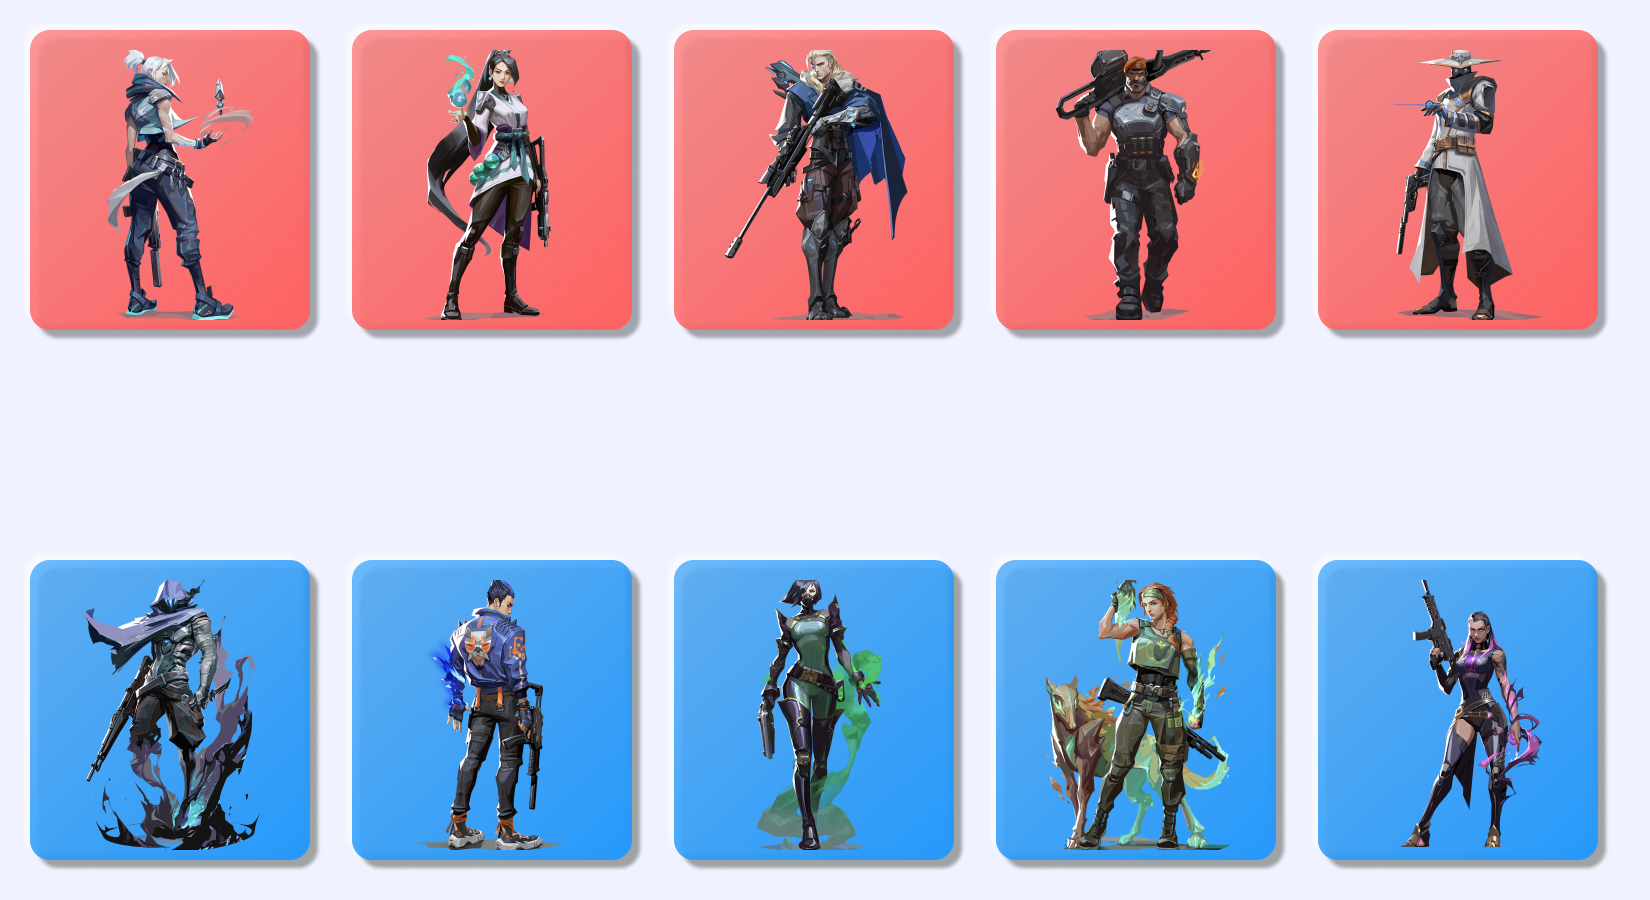
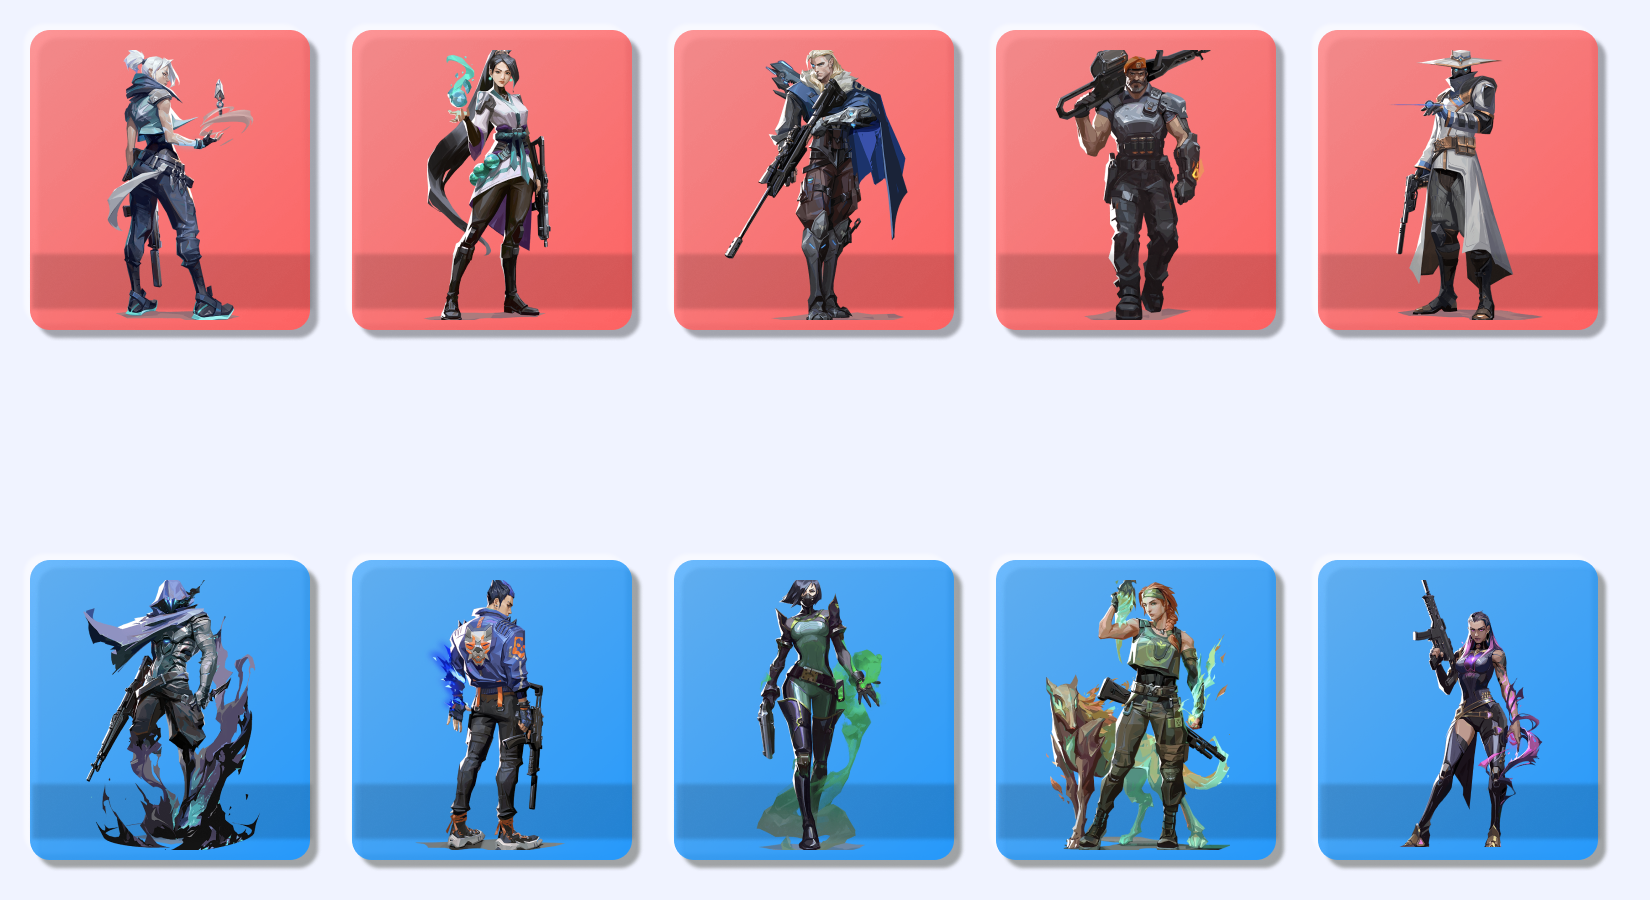
feat: overlay

Changed region(s): [[0.0, 0.28, 0.9891, 0.3422], [0.0, 0.8711, 0.9891, 0.9333]]

diff --git a/valo_generator.py b/valo_generator.py
@@ -24,20 +24,23 @@ class ValoGenerator:
             "skye",
             "reyna"
         ]
+        self.margin_rlay = 250
+        self.margin_blay = 780
 
     def gen_base(self):
         blank = cv2.imread("assets/blank.png")
         # blank = np.zeros((self.base_height, self.base_width, 4))
         # blank += [236, 240, 243, 255][::-1]
-        print(blank.shape)
 
         for i in range(5):
             blank = self.paste_red(blank, i*(self.card_width+20))
             blank = self.paste_red_character(blank, self.characters[i], i*(self.card_width+20)+60)
+            blank = self.paste_dark_overlay(blank, i*(self.card_width+20), self.margin_rlay)
 
         for i in range(5):
             blank = self.paste_blue(blank, i*(self.card_width+20))
             blank = self.paste_blue_character(blank, self.characters[i+5], i*(self.card_width+20)+60)
+            blank = self.paste_dark_overlay(blank, i*(self.card_width+20), self.margin_blay)
         
         cv2.imwrite("blank.png", blank)
 
@@ -45,8 +48,9 @@ class ValoGenerator:
         red = cv2.imread("assets/redCard.png", -1)
 
         h, w = red.shape[:2]
-        self.card_height = h
         self.card_width = w
+        self.card_height = h
+        print("x: {}".format(x))
 
         base[self.margin_ry:h+self.margin_ry, x+self.margin:x+w+self.margin] = base[self.margin_ry:h+self.margin_ry, x+self.margin:x+w+self.margin] * (1 - red[:, :, 3:] / 255) + \
             red[:, :, :3] * (red[:, :, 3:] / 255)
@@ -78,6 +82,18 @@ class ValoGenerator:
 
         base[self.margin_bcy:h+self.margin_bcy, x+self.margin:x+w+self.margin] = base[self.margin_bcy:h+self.margin_bcy, x+self.margin:x+w+self.margin] * (1 - character[:, :, 3:] / 255) + \
             character[:, :, :3] * (character[:, :, 3:] / 255)
+
+        return base
+
+    def paste_dark_overlay(self, base, x, y):
+        overlay = cv2.imread("assets/darkOverlay.png", -1)
+        h, w = overlay.shape[:2]
+        print(overlay.shape)
+        print("{} {}".format(x, base.shape))
+
+        base[y:h+y, x+self.margin:x+w+self.margin] = \
+            base[y:h+y, x+self.margin:x+w+self.margin] * (1 - overlay[:, :, 3:] / 255) + \
+            overlay[:, :, :3] * (overlay[:, :, 3:] / 255)
 
         return base
 
